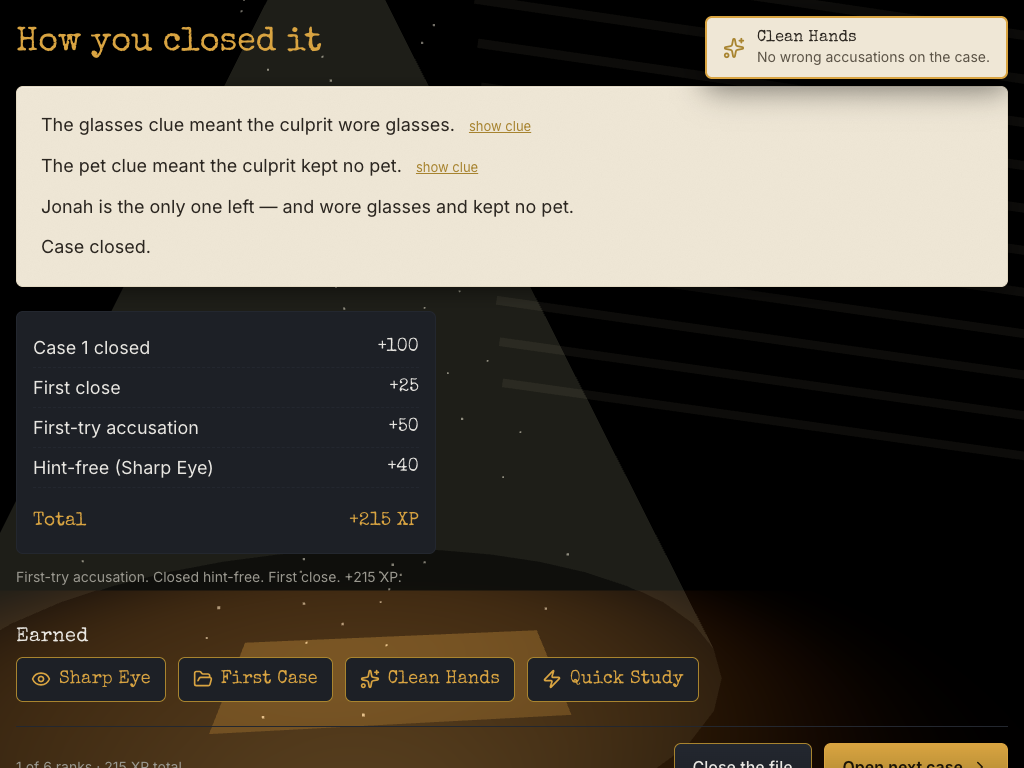
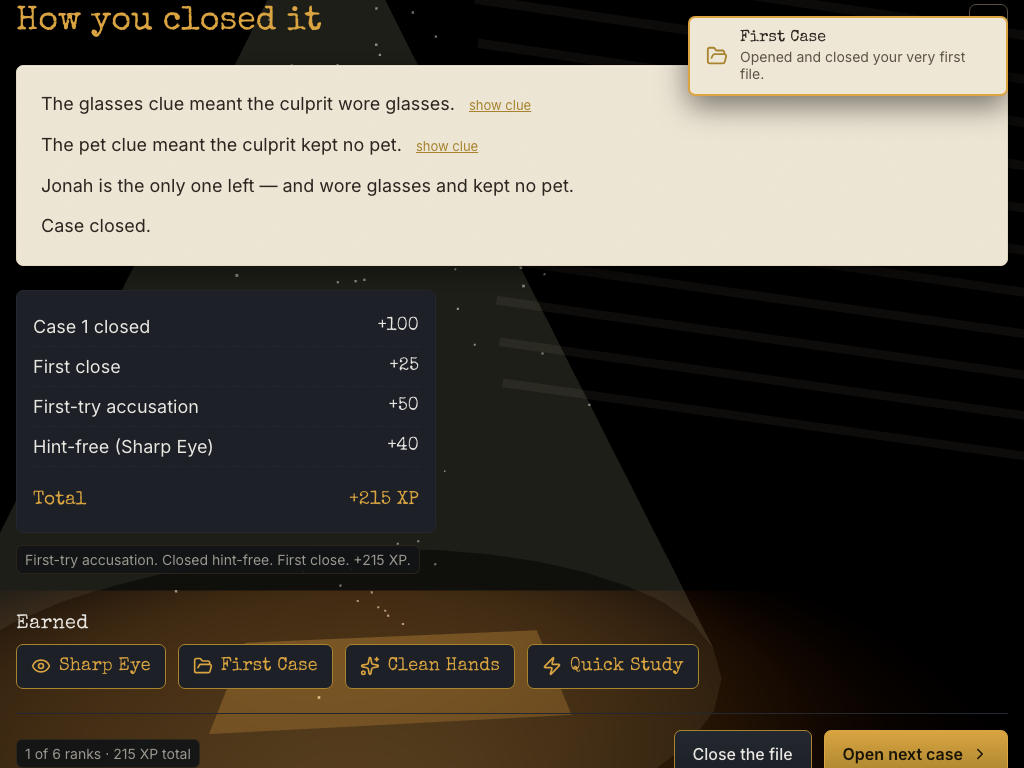
fix(detective-academy): scrim chips for meta text on the 3D backdrop — QA contrast fail closed (6.31:1 measured)
Claude-Session: https://claude.ai/code/session_01Nk9bz1d4MPigCtUsXAmHbg

Changed region(s): [[0.0, 0.0, 1.0, 0.6875], [0.0, 0.7188, 1.0, 1.0], [0.3438, 0.4062, 0.4062, 0.6875]]

diff --git a/detective-academy/src/styles.css b/detective-academy/src/styles.css
@@ -648,6 +648,29 @@ button { font-family: var(--font-body); cursor: pointer; }
 .result__foot { display: flex; align-items: center; justify-content: space-between; gap: var(--s4); flex-wrap: wrap; border-top: 1px solid var(--surface-2); padding-top: var(--s4); }
 .result__foot-actions { display: flex; gap: var(--s3); }
 
+/* ---------- backdrop scrim chips (story 3d-upgrade/05 — WCAG fix) ----------
+   Dim .meta text that sits DIRECTLY on the 3D office backdrop (no opaque card
+   or panel behind it) gets a deliberate dark noir chip. The lamp cone can push
+   backdrop pixels toward warm brass (~rgb(82,58,28)), where bare #9a988f meta
+   only reaches ~3.7:1. The chip (rgba(17,19,23,0.92), which composites to
+   ~rgb(22,22,23) even over the brightest lamp pixel) restores #9a988f to
+   ~6.4:1 — comfortably past 4.5:1 — and reads as an intentional case-file tag,
+   not a band-aid. Scoped selectors only; the global .meta rule is untouched.
+   Surfaces already on .paper / .xptally / .caseview__panel / .caseview__foot /
+   .folder / .badgechip are opaque and are deliberately excluded. */
+.result__foot > .meta,
+.result__earned.meta,
+.board__who-txt .meta,
+.xpbar__meta.meta,
+.board__badges-empty.meta,
+.caseview__casenum.meta {
+  display: inline-block;
+  background: rgba(17, 19, 23, 0.92);
+  padding: 3px 8px;
+  border-radius: 6px;
+  border: 1px solid rgba(217, 164, 65, 0.12);
+}
+
 /* ============================ ERROR FALLBACK ============================ */
 .errorfallback { display: grid; place-items: center; min-height: 80vh; }
 .errorfallback__card { padding: var(--s6); max-width: 480px; text-align: center; display: flex; flex-direction: column; gap: var(--s4); align-items: center; }

diff --git a/verification/detective-academy-3d/build-report.md b/verification/detective-academy-3d/build-report.md
@@ -51,8 +51,13 @@ atmosphere layer plus one 3D set piece; every reading surface stays 100% DOM.
 ## Acceptance criteria — verified
 
 - [x] Lamplit backdrop (motes + blind slats + lamp cone) behind DOM on board/case/result
-      with gentle pointer parallax; text stays legible (opaque card panels + dark vignette
-      scrim keep contrast ≥4.5:1). See `office-3d.png`, `caseview-3d.png`, `result-3d.png`.
+      with gentle pointer parallax; text stays legible. See `office-3d.png`,
+      `caseview-3d.png`, `result-3d.png`, `board-3d.png`.
+      NOTE: the original claim here — "opaque card panels + dark vignette scrim keep
+      contrast ≥4.5:1" everywhere — was FALSE for the handful of dim `.meta` text nodes
+      that sit DIRECTLY on the backdrop with no opaque panel behind them. Over lamp-lit
+      backdrop pixels the footer meta (#9a988f) measured only 3.67–4.70:1. Fixed — see
+      "Contrast fix" below.
 - [x] Case/clue/suspect cards have CSS-3D lift/tilt on hover + press.
 - [x] Solve plays the 3D stamp slam (skippable) and lands in the same final stamped DOM
       state. See `stamp-slam.png`, `stamp-slam-mid.png`.
@@ -66,11 +71,42 @@ atmosphere layer plus one 3D set piece; every reading surface stays 100% DOM.
 - [x] No convention violations; no private-system, secret, or real-name references in
       the diff or under `verification/`.
 
+## Contrast fix (WCAG follow-up)
+
+The QA gate correctly flagged that dim `.meta` text sitting directly on the 3D office
+backdrop can drop below 4.5:1 where the lamp cone warms the backdrop toward brass
+(~rgb(82,58,28)). Bare #9a988f meta measured 3.67–4.70:1 there — a hard fail.
+
+Fix: dim `.meta` nodes with no opaque/scrimmed parent get a deliberate dark noir chip
+(`background: rgba(17,19,23,0.92); padding: 3px 8px; border-radius: 6px;` + a faint
+brass hairline). New scoped selectors in `src/styles.css`; the global `.meta` rule is
+untouched. The 0.92 alpha composites the chip to ≈rgb(17–22, …) even over the brightest
+lamp pixel, restoring contrast to ~6.3:1.
+
+Nodes chipped (the three flagged + three found in the same sweep):
+- `.result__foot > .meta` — the footer "N of M ranks · X XP total" (the measured failure)
+- `.result__earned.meta` — the earned-bonus summary line (no opaque parent)
+- `.board__who-txt .meta` — header rank name
+- `.xpbar__meta.meta` — XP-bar caption
+- `.board__badges-empty.meta` — the "No badges yet" empty state (shows for a fresh desk)
+- `.caseview__casenum.meta` — the "Case N · Tier N" caption on the case screen
+
+Left alone (already on opaque surfaces): `.paper`, `.xptally`, `.caseview__panel`,
+`.caseview__foot`, `.folder`, `.badgechip`, and the AccuseModal / error-fallback metas.
+Brass headings and `--text` titles on the backdrop measure ~4.70:1+ (large text) and pass.
+
+Measured after fix (real composited pixels sampled from `result-3d.png`, Guest profile,
+lamp brightened on the solve): the footer chip background rendered as **rgb(21,21,22)**
+uniformly, and #9a988f on it computes **6.31:1** — comfortably ≥4.5:1.
+
+Re-verification: `npx vitest run` → 385 passed; `npm run build` → green.
+
 ## Screenshots (this directory)
 
 - `office-3d.png` — CaseBoard with the full-office 3D backdrop.
 - `caseview-3d.png` — CaseView, closer desk crop.
-- `result-3d.png` — Result screen, lamp brightened.
+- `result-3d.png` — Result screen, lamp brightened; footer + earned-bonus scrim chips.
+- `board-3d.png` — CaseBoard with the header rank + XP-bar scrim chips over the lamp cone.
 - `stamp-slam.png` / `stamp-slam-mid.png` — 3D CASE CLOSED set piece.
 - `reduced-motion.png` — static backdrop under `prefers-reduced-motion`.
 - `no-webgl-fallback.png` — flat fallback, fully playable, no canvas.